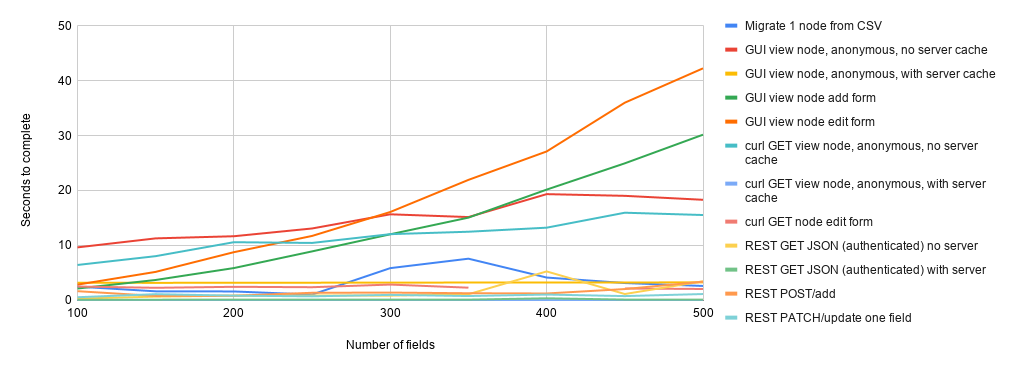
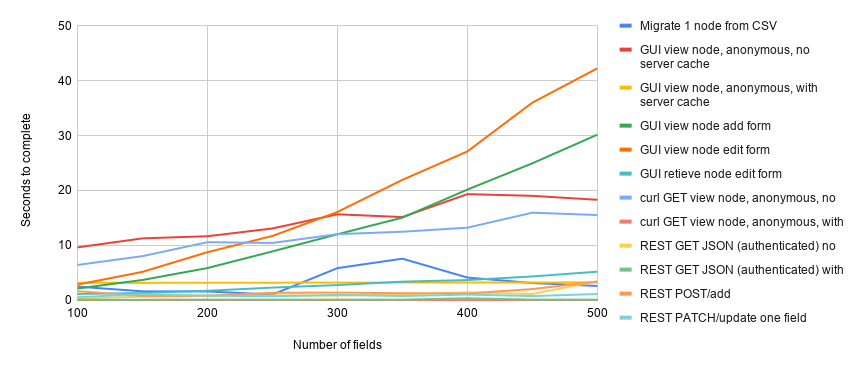
Fixed error in retrieval times for node edit form.

diff --git a/test_results/results.md b/test_results/results.md
@@ -18,7 +18,7 @@ To generate the data, I created a Drupal module using the `drupal_field_limit_te
    * Fetched this same content using curl with both empty and populated Drupal cache
 * Viewed (using Chrome) the node add form for my content type, as the "admin" user
 * Viewed (using Chrome) the node edit form for my content type (populated with node content), as the "admin" user
-   * Fetched this same content using curl
+* Downloaded (using Chrome) the node edit form for my content type (populated with node content), as the "admin" user
 * Using curl, issued a `GET` request to the sample node's JSON endpoint with an empty Drupal cache, authenticated as the "admin" user
 * Using curl, issued a `GET` request to the sample node's JSON endpoint with a populated Drupal cache, authenticated as the "admin" user
 * Using curl, issued a `POST` request to create a node
@@ -62,11 +62,11 @@ Specifically, the drag-and-drop UI elements, which use JavaScript under the hood
 
 This behavior suggested that the JavaScript used to render the drag-and-drop UI elements was implicated in the very long scripting and rendering times shown in the donut chart above. To confirm this, I dug deeper in Chrome's performance tool, which revealed that that the main JavaScript library loaded by the node edit form took approximately 30 seconds to execute of the 43 seconds required to render the edit form.
 
-To gather additional data to isolate the impact of executing JavaScript when rendering the node edit form, I retrieved the popluated node edit form using both Chrome and curl, in both cases authenticated as the Drupal "admin" user:
+To gather additional data to isolate the impact of executing JavaScript when rendering the node edit form, I used Chrome's network tool (hamburger menu > More tools > Developer tools > network) to retrieve the popluated node edit form as the Drupal "admin" user (using the "Finish" value, which is the sum of the retrieval times for all files referenced in the node edit form):
 
-!['Chart showing rendering of the GUI node edit form vs. markup and data only'](node_edit_form_gui_vs_curl.png)
+!['Chart showing rendering of the GUI node edit form vs. retieving markup and data only'](node_edit_form_render_vs_download.png)
 
-The HTML markup and node field content in the form are identical in both clients. Since curl does not execute any JavaScript or layout rendering, it is reasonable to conclude that the difference in the time required for Chrome to render the node edit form compared to the time required by curl to download the identical content is attributable to executing the JavaScript and rendering tasks in Chrome. Despite a gap in data at 400 fields (which I explain below in the "Limitations" section), the impact of this set of rendering tasks increases linearly.
+The times collected in this way are for retrieval of the files only, and do not include time spent executing JavaScript or spent rendering the page. The low times to retrieve the page content compared to the long times required to render the same content confirm that the the impact of executing JavaScript and rendering the page is substantial. A more specific conclusion we can make is that the overall time consumed by these two tasks has a linear relationship to the number of fields in the edit form.
 
 ### Viewing node content
 
@@ -84,8 +84,7 @@ Number of fields didn't have an appreciable impact on any of the tested REST req
 
 !['Chart showing all test results'](chart-rest.png)
 
-Requesting the JSON representation of an node (via `GET`) is fairly fast regardless of the number of fields, especially requests for cached content, and even for authenticated users. There is one anomaly (`GET` with no cache, at 400 fields), which I will explain below in the "Limitations" section. It isn't surprising that requesting the JSON via a REST request is faster than fetching a fully rendered version of the node, since the JSON representation contains less node data and no HTML markup.
-
+Requesting the JSON representation of an node (via `GET`) is fairly fast regardless of the number of fields, especially requests for cached content, and even for authenticated users. It isn't surprising that requesting the JSON via a REST request is faster than fetching a fully rendered version of the node, since the JSON representation contains less node data and no HTML markup.
 
 At 500 fields, retrieving a node's uncached JSON representation (via `GET`) and adding nodes (via `POST`) started to take a bit longer than with fewer fields, but updating a single field via `PATCH` was consistently quick all the way up to 500 fields.
 
@@ -96,7 +95,6 @@ This exploration of the practical number of fields you can attach to a Drupal co
 * It only tested the time it takes using a graphical web browser to *render* node add and edit forms. Chrome's developer tools do not provide a way (as far as I can tell) of timing form submit operations.
 * All fields attached to nodes for testing purposes are simple text fields (i.e., this study doesn't test for performance implications of other field types such as taxonomy fields).
 * While this study does control for server-side caching (in Drupal at least), it does not account for caching done by Chrome.
-* The test data contains a gap at 400 fields. During collection of the data at the 400 field point, Drupal hung while I was using curl to retrieve the populated node edit form. Likewise, at 400 fields, we see an anomalous spike in the time required to complete the REST `GET` request. I assume that these two exceptions were caused by same underlying (and undiagnosed) problem with Drupal. I decided to leave this gap in the data instead of restarting the entire 400-field test run in order to be consistent with the other data collection runs. It is unlikely the lack of one data point invalidates the trends revealed by the rest of the data.
 
 ## Conclusions
 
